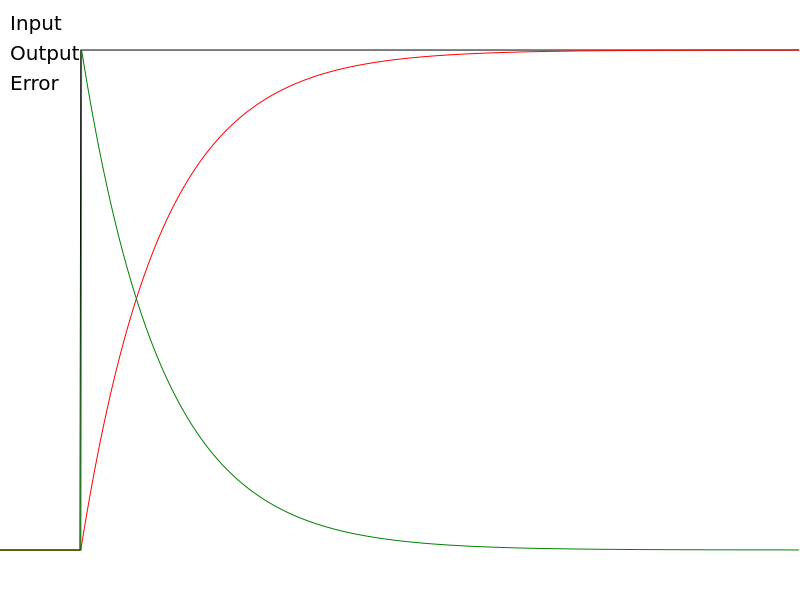
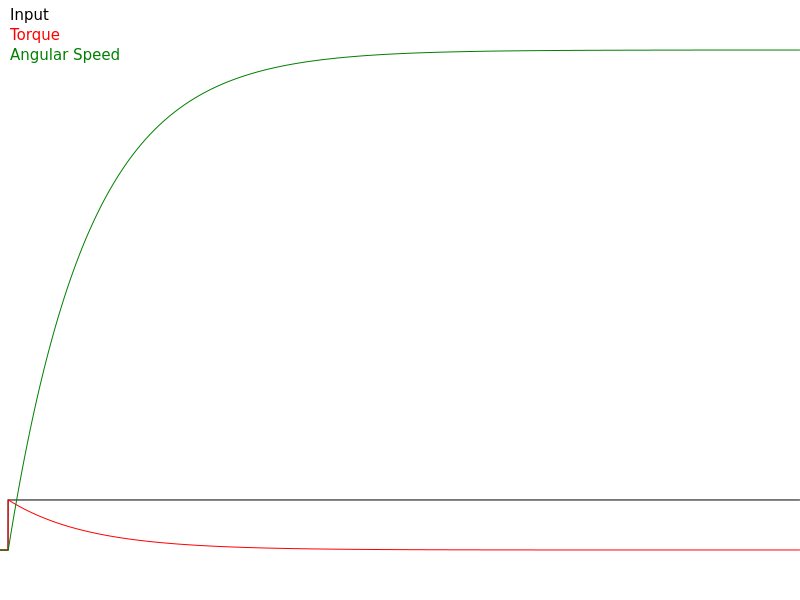
Implement system with friction

diff --git a/src/index.ts b/src/index.ts
@@ -4,6 +4,10 @@ import { Output, Report, System } from "./core/model";
 import { IIR1 } from "./modules/iir";
 import { Input } from "./modules/input";
 import { Subtract } from "./modules/subtract";
+import { Constant } from "./modules/constant";
+import { Multiply } from "./modules/multiply";
+import { Divide } from "./modules/divide";
+import { Integral } from "./modules/integral";
 
 function func(t: number) {
   if (t < 1) return 0;
@@ -69,9 +73,9 @@ async function visualize(reports: Report[], filename = "graph.png") {
   for (let i = 0; i < reports.length; i++) {
     ctx.strokeStyle = colorTable[i % colorTable.length];
     drawCurve(reports[i].data);
-    ctx.fillStyle = "black";
-    ctx.font = "20px Arial";
-    ctx.fillText(reports[i].title, 10, 30 * (i + 1));
+    ctx.fillStyle = colorTable[i % colorTable.length];
+    ctx.font = "15px Arial";
+    ctx.fillText(reports[i].title, 10, 20 * (i + 1));
   }
 
   // Save the canvas to a file
@@ -79,7 +83,7 @@ async function visualize(reports: Report[], filename = "graph.png") {
   await fs.writeFile(filename, buffer);
 }
 
-async function main() {
+async function test() {
   // Define operations
   const input = new Input(func);
   const iir = new IIR1(0.01);
@@ -102,10 +106,62 @@ async function main() {
   system.setDt(0.01);
   system.init();
 
+  // Run the system
   system.run(10);
+
+  // Visualize the result
+  const reports: Report[] = system.report();
+  await visualize(reports);
+}
+
+async function main() {
+  const input = new Input(func);
+
+  const torque = new Subtract();
+  const inertia = new Constant(1);
+  const a = new Divide();
+  const w = new Integral();
+  const theta = new Integral();
+  const mu = new Constant(0.1);
+  const friction = new Multiply();
+  const output = new Output("Theta");
+  const inputProbe = new Output("Input");
+  const torqueProbe = new Output("Torque");
+  const angularSpeedProbe = new Output("Angular Speed");
+
+  const system = new System();
+  system.register(
+    input,
+    torque,
+    inertia,
+    a,
+    w,
+    // theta,
+    mu,
+    friction,
+    // output,
+    inputProbe,
+    torqueProbe,
+    angularSpeedProbe
+  );
+  system.connect(input.out, torque.in1);
+  system.connect(input.out, inputProbe.in);
+  system.connect(friction.out, torque.in2);
+  system.connect(torque.out, a.in1);
+  system.connect(torque.out, torqueProbe.in);
+  system.connect(inertia.out, a.in2);
+  system.connect(a.out, w.in);
+  system.connect(w.out, angularSpeedProbe.in);
+  system.connect(w.out, friction.in1);
+  system.connect(mu.out, friction.in2);
+  // system.connect(theta.out, output.in);
+
+  system.setDt(0.01);
+  system.init();
+  system.run(100);
 
   const reports: Report[] = system.report();
   await visualize(reports);
 }
 
-main();
+main().catch((e) => console.error("\x1b[31m\x1b[1m" + e.message + "\x1b[0m"));
